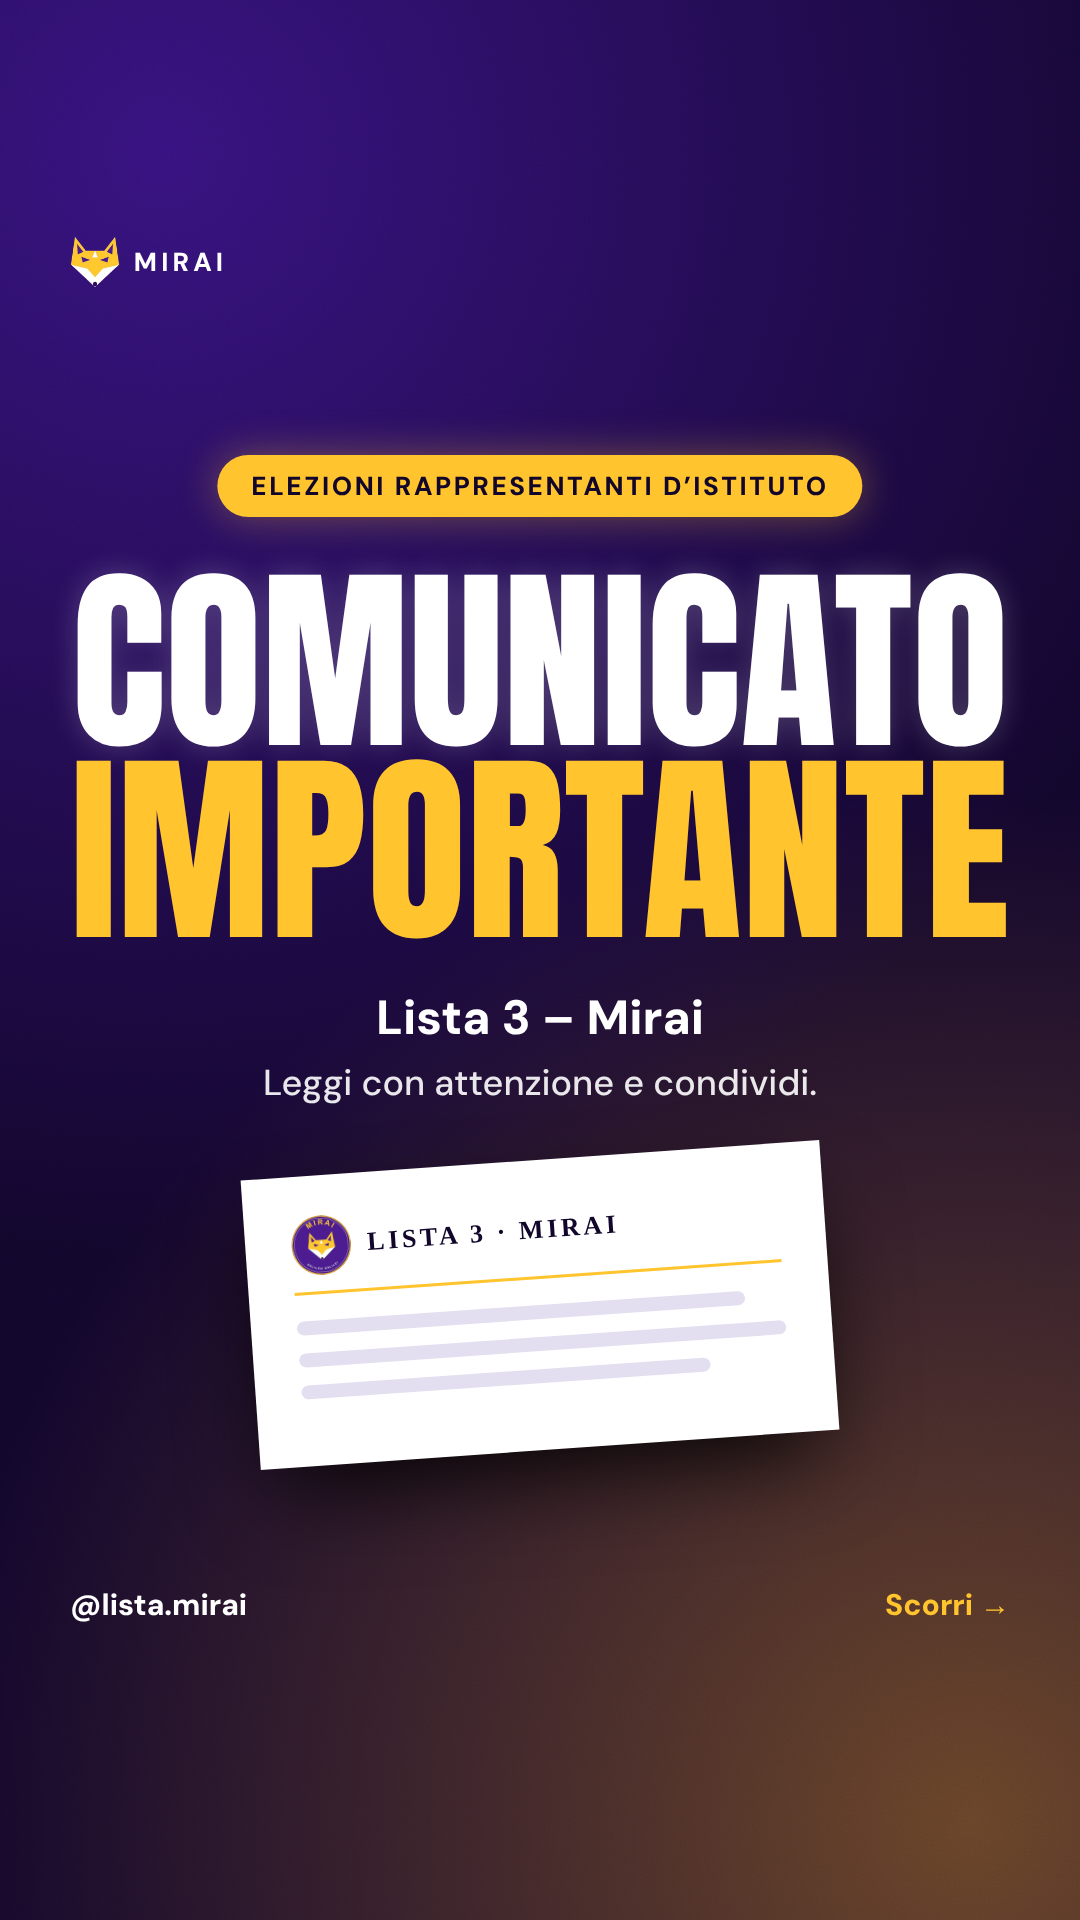
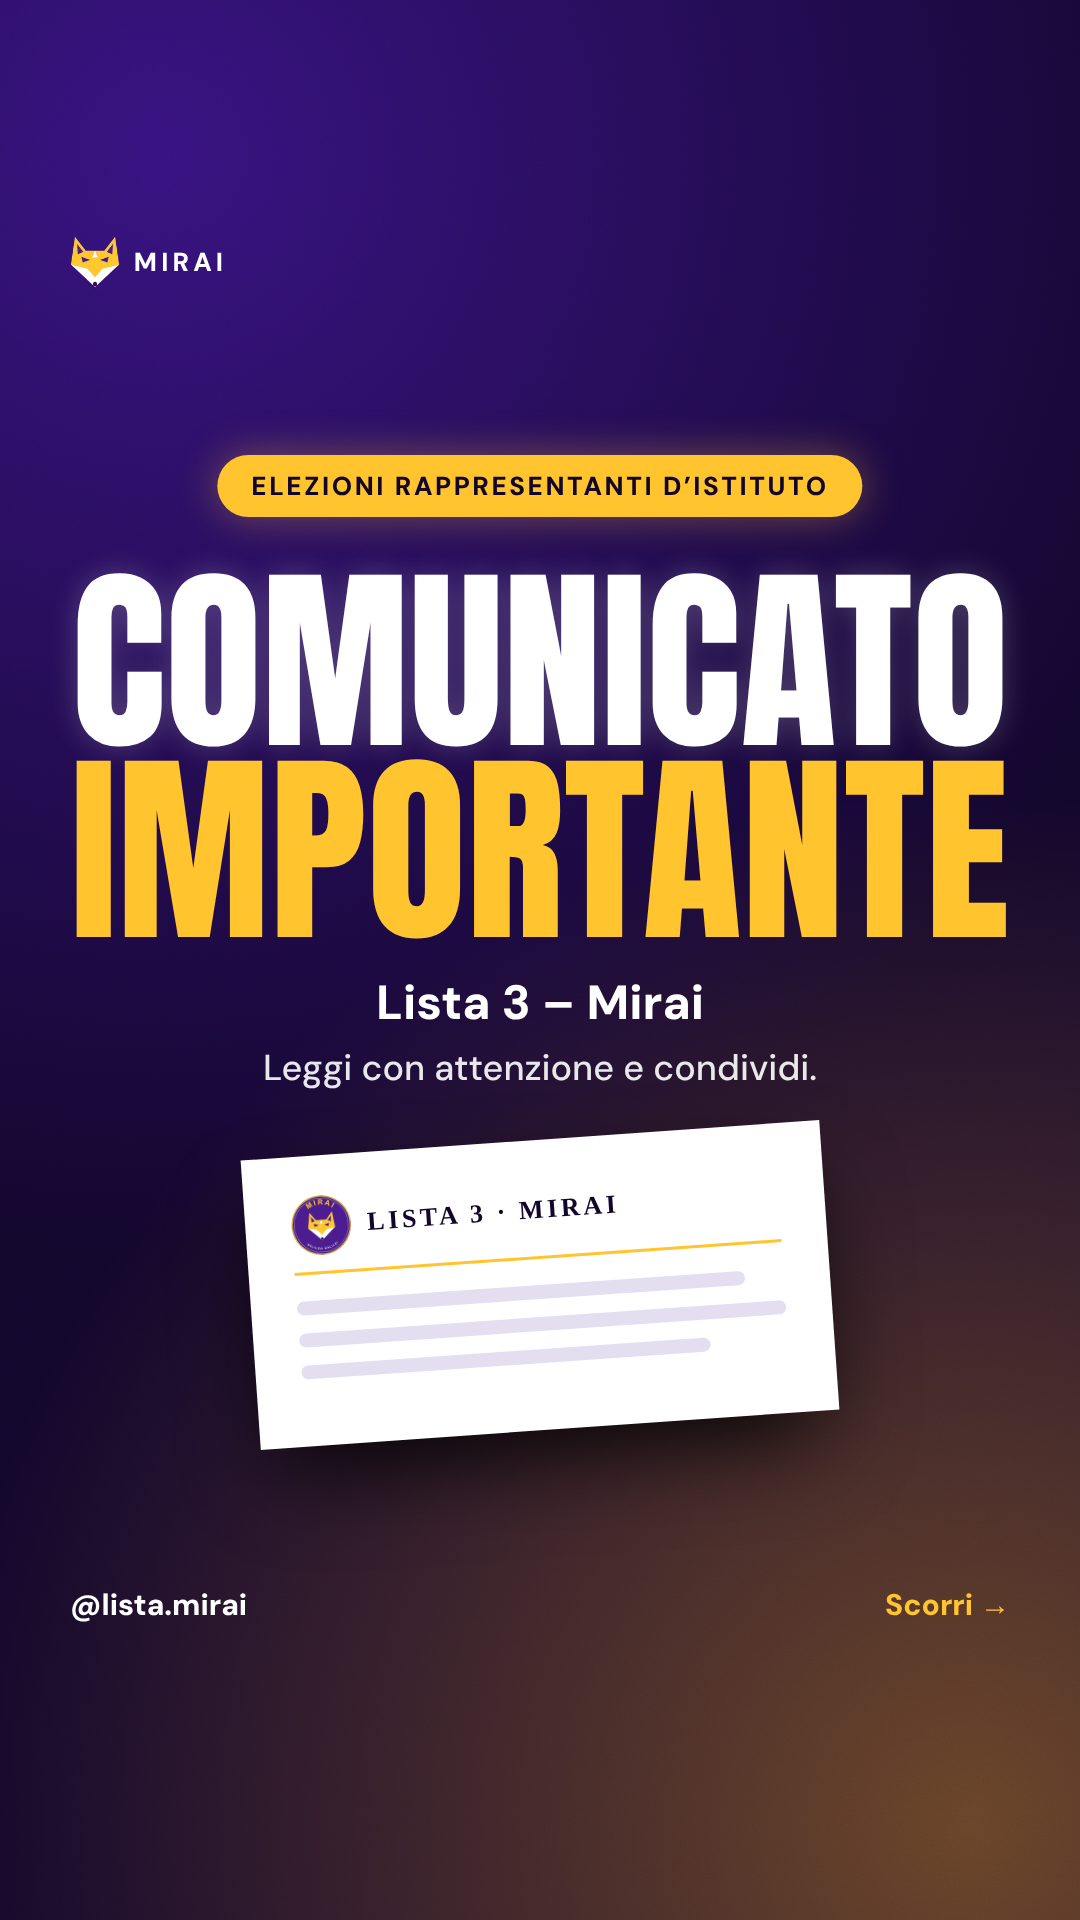
Copertine comunicato: sottotitolo e foglio rialzati
Claude-Session: https://claude.ai/code/session_01R2EF8p8tCb9WtiTgwavMfk

Changed region(s): [[0.2139, 0.5, 0.7944, 0.7812]]

diff --git a/social/campagna/copertina-comunicato.html b/social/campagna/copertina-comunicato.html
@@ -21,9 +21,9 @@
  <div class="pill" style="top:225px;font-size:26px">Elezioni rappresentanti d’istituto</div>
  <div class="tt" style="top:335px"><div class="A" data-max="300" data-box="940" style="color:#fff;text-shadow:0 0 30px rgba(255,255,255,.2)">Comunicato</div>
  <div class="A" data-max="300" data-box="940" style="color:#ffc42e">Importante</div></div>
- <div class="sub" style="top:745px;font:800 44px/1.15 'DM Sans'">Lista 3 – Mirai</div>
- <div class="sub" style="top:810px;font:500 34px/1.3 'DM Sans';opacity:.9">Leggi con attenzione e condividi.</div>
- <div class="paper" style="left:250px;top:890px;width:580px;height:290px;transform:rotate(-4deg)">
+ <div class="sub" style="top:732px;font:800 44px/1.15 'DM Sans'">Lista 3 – Mirai</div>
+ <div class="sub" style="top:797px;font:500 34px/1.3 'DM Sans';opacity:.9">Leggi con attenzione e condividi.</div>
+ <div class="paper" style="left:250px;top:865px;width:580px;height:290px;transform:rotate(-4deg)">
   <div style="display:flex;align-items:center;gap:16px;border-bottom:3px solid #ffc42e;padding-bottom:16px;margin-bottom:26px"><img src="../../assets/logo.png" style="width:60px;height:60px;border-radius:50%"><div style="font:700 26px Tinos;letter-spacing:.14em;color:#12062b">LISTA 3 · MIRAI</div></div>
   <div class="ln" style="width:92%"></div><div class="ln"></div><div class="ln" style="width:84%"></div></div>
  <div class="foot"><span>@lista.mirai</span><b>Scorri →</b></div></section>
@@ -32,9 +32,9 @@
  <div class="pill" style="top:455px;font-size:26px">Elezioni rappresentanti d’istituto</div>
  <div class="tt" style="top:570px"><div class="A" data-max="320" data-box="940" style="color:#fff;text-shadow:0 0 30px rgba(255,255,255,.2)">Comunicato</div>
  <div class="A" data-max="320" data-box="940" style="color:#ffc42e">Importante</div></div>
- <div class="sub" style="top:990px;font:800 48px/1.15 'DM Sans'">Lista 3 – Mirai</div>
- <div class="sub" style="top:1060px;font:500 36px/1.3 'DM Sans';opacity:.9">Leggi con attenzione e condividi.</div>
- <div class="paper" style="left:250px;top:1160px;width:580px;height:290px;transform:rotate(-4deg)">
+ <div class="sub" style="top:975px;font:800 48px/1.15 'DM Sans'">Lista 3 – Mirai</div>
+ <div class="sub" style="top:1045px;font:500 36px/1.3 'DM Sans';opacity:.9">Leggi con attenzione e condividi.</div>
+ <div class="paper" style="left:250px;top:1140px;width:580px;height:290px;transform:rotate(-4deg)">
   <div style="display:flex;align-items:center;gap:16px;border-bottom:3px solid #ffc42e;padding-bottom:16px;margin-bottom:26px"><img src="../../assets/logo.png" style="width:60px;height:60px;border-radius:50%"><div style="font:700 26px Tinos;letter-spacing:.14em;color:#12062b">LISTA 3 · MIRAI</div></div>
   <div class="ln" style="width:92%"></div><div class="ln"></div><div class="ln" style="width:84%"></div></div>
  <div class="foot"><span>@lista.mirai</span><b>Scorri →</b></div></section>
